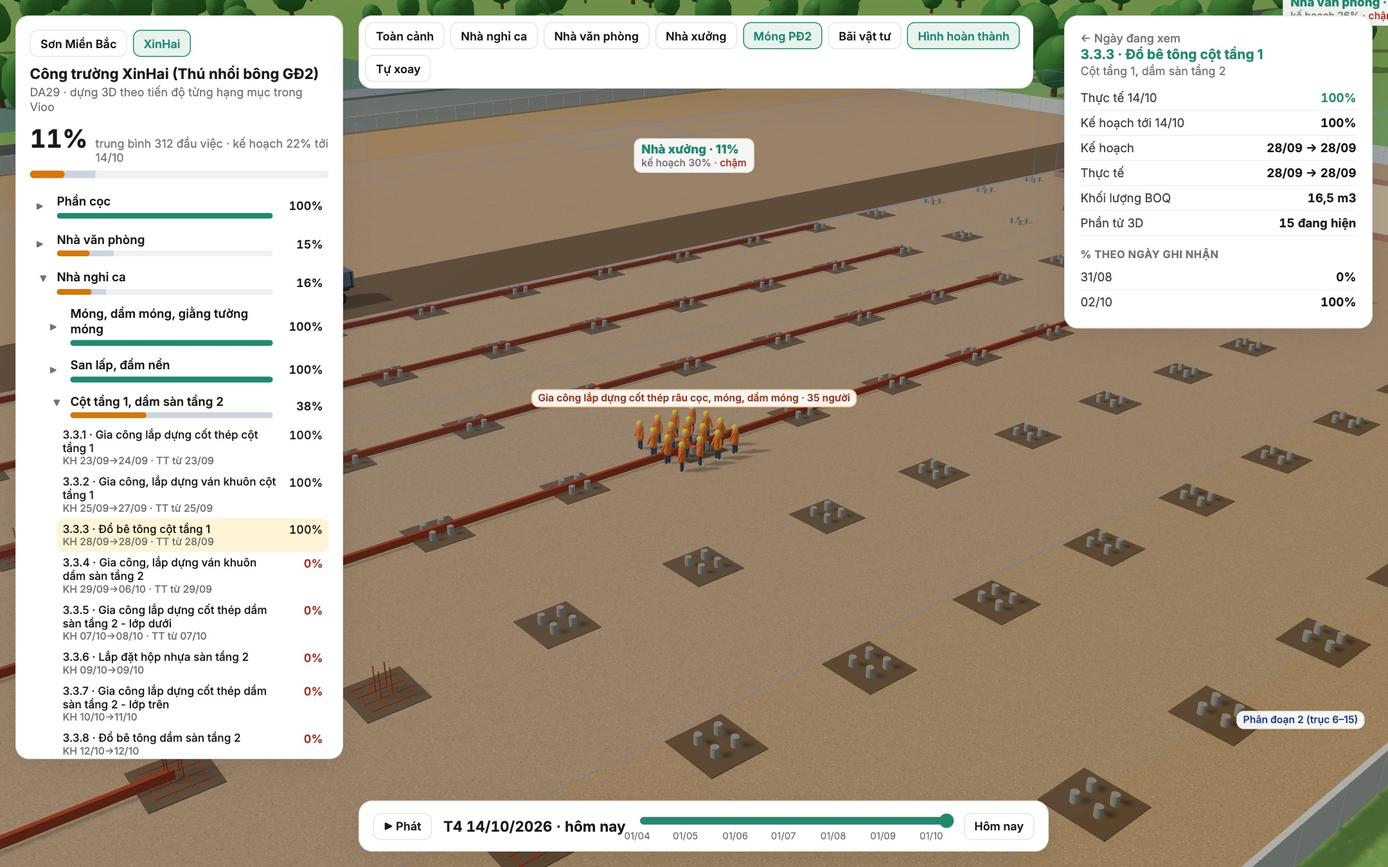
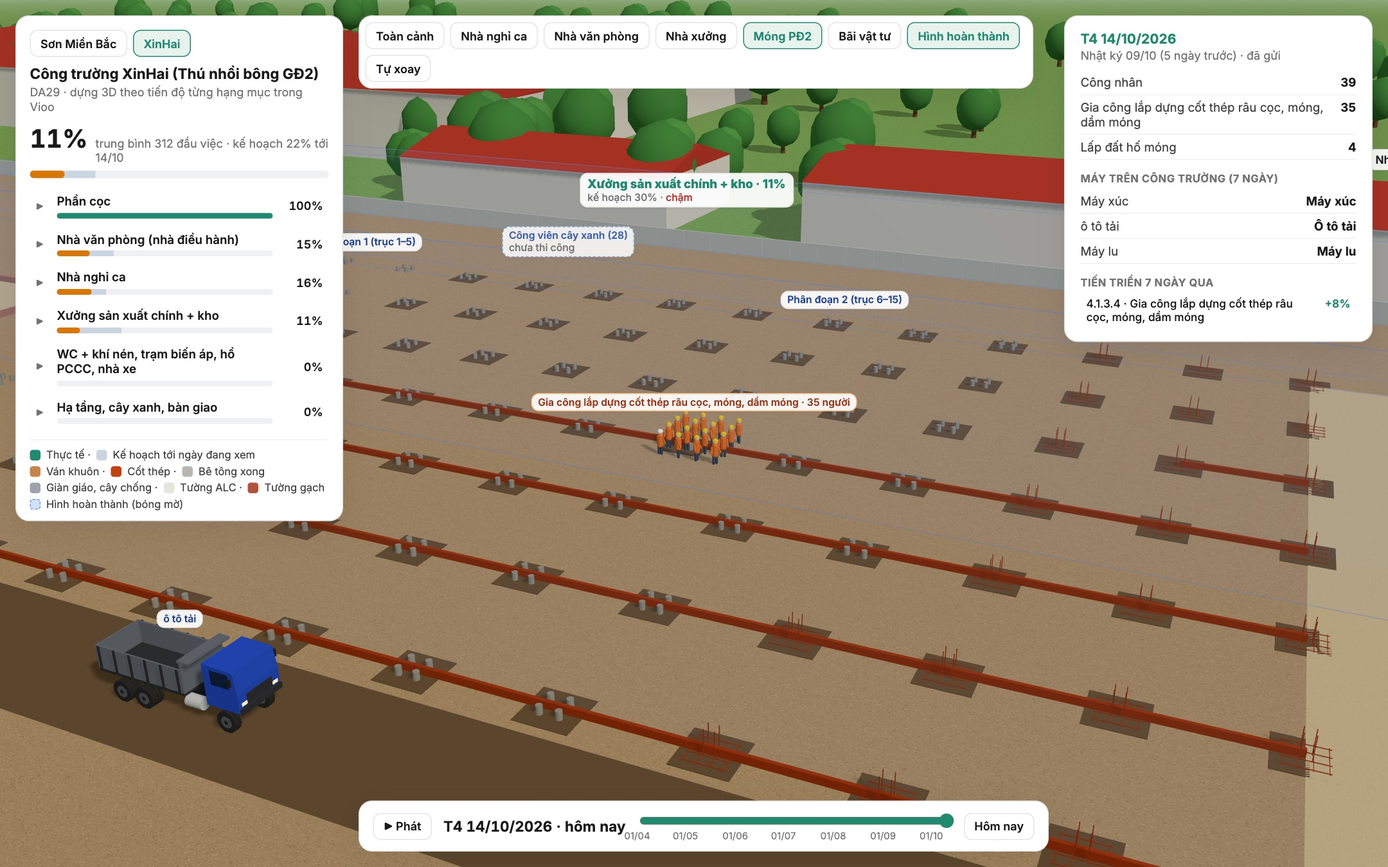
docs(center): XinHai 3D theo phối cảnh và bảng hạng mục thật
- Mặt bằng xoay theo phối cảnh: đường chính phía trước, đường nhánh bên phải, nhà máy giai đoạn 1 phía sau.
- Xưởng sản xuất chính + kho 8.110 m² (60 × 135, 18 bước cột), nhà điều hành 2 tầng 1.161 m² ở đầu xa, nhà nghỉ ca 3 tầng 288 m² ở đầu gần.
- Hạng mục chưa thi công (nhà xe, WC, khí nén, máy phát, trạm biến áp, nồi hơi, hồ PCCC, cột cờ, cây xanh) hiện bóng mờ có tên + diện tích.

diff --git a/docs/command-center/mockups/site-3d.html b/docs/command-center/mockups/site-3d.html
@@ -48,6 +48,7 @@ button:hover{background:#f2f2f2}button[aria-pressed=true]{border-color:var(--acc
 .label small{display:block;font-weight:500;color:var(--muted);font-size:10.5px}
 .label.click{pointer-events:auto;cursor:pointer}.label.click:hover{border-color:var(--accent)}
 .label.bld{font-size:12.5px;font-weight:800;color:#1f8a70}.label.team{color:#9a3412;border-color:#fdba74;font-size:10.5px;padding:2px 6px}
+.label.ghost{color:#3b5fa8;border:1px dashed #8aa6d8;background:rgba(255,255,255,.85);font-size:10.5px;padding:2px 6px}
 .label.mach{color:#1d4290;font-size:10.5px;padding:2px 6px}.label.pour{background:#1f2937;color:#fff;border-color:#1f2937;font-size:10.5px}
 .legend{display:grid;gap:3px;font-size:11px;color:var(--fg2);margin-top:10px;border-top:1px solid #f0f0f0;padding-top:8px}
 .legend span{display:flex;align-items:center;gap:6px}.legend i{width:11px;height:11px;border-radius:3px;display:inline-block;flex:none}
@@ -240,7 +241,7 @@ const k = (n, p) => Math.round(n * Math.max(0, Math.min(100, p)) / 100);
 /* ───────── Mặt bằng (đơn vị m; x đông, z nam; đường lớn phía nam) ─────────
    Kích thước theo khối lượng BOQ trong Vioo: NX1 = NX2 = 1.980 m² (30 × 66), NX3 = 5.550 m² hai zone (66 × 83), nhà văn phòng ~400 m² sàn (24 × 17), 4 tầng + tum. */
 const kidsOf = w => (TASK[w] ? TASK[w].kids.map(t => t.wbs) : []);
-const SITE = SITE_KEY === 'SMB' ? { x0: -52, x1: 50, z0: -172, z1: 62 } : { x0: -66, x1: 82, z0: -152, z1: 50 };
+const SITE = SITE_KEY === 'SMB' ? { x0: -52, x1: 50, z0: -172, z1: 62 } : { x0: -66, x1: 80, z0: -178, z1: 52 };
 const BLD = SITE_KEY === 'SMB' ? {
   NVP: { name: 'Nhà văn phòng', short: 'Văn phòng', x0: -40, x1: -16, z0: 8, z1: 25, roots: ['1', '2', '3', '4'] },
   NX1: { name: 'Nhà xưởng 1', short: 'Xưởng 1', x0: 0, x1: 30, z0: -50, z1: 16, roots: ['5', '6', '7', '8'] },
@@ -248,10 +249,10 @@ const BLD = SITE_KEY === 'SMB' ? {
   NX3: { name: 'Nhà xưởng 3', short: 'Xưởng 3', x0: -38, x1: 28, z0: -160, z1: -77, roots: ['13', '14', '15', '16'] },
   HT: { name: 'Hạ tầng', short: 'Hạ tầng', x0: SITE.x0, x1: SITE.x1, z0: SITE.z0, z1: SITE.z1, roots: ['17'] },
 } : {
-  COC: { name: 'Phần cọc', short: 'Cọc', x0: 10, x1: 76, z0: -112, z1: 38, roots: kidsOf('1'), noLabel: true },
-  NVP: { name: 'Nhà văn phòng', short: 'Văn phòng', x0: 10, x1: 58, z0: -140, z1: -116, roots: kidsOf('2') },
-  NNC: { name: 'Nhà nghỉ ca', short: 'Nghỉ ca', x0: -26, x1: -2, z0: 10, z1: 26, roots: kidsOf('3') },
-  NX: { name: 'Nhà xưởng', short: 'Xưởng', x0: 10, x1: 76, z0: -112, z1: 38, roots: kidsOf('4') },
+  COC: { name: 'Phần cọc', short: 'Cọc', x0: 0, x1: 60, z0: -115, z1: 20, roots: kidsOf('1'), noLabel: true },
+  NVP: { name: 'Nhà văn phòng (nhà điều hành)', short: 'Văn phòng', x0: 4, x1: 40.3, z0: -147, z1: -115, roots: kidsOf('2') },
+  NNC: { name: 'Nhà nghỉ ca', short: 'Nghỉ ca', x0: -30, x1: -12, z0: -4, z1: 12, roots: kidsOf('3') },
+  NX: { name: 'Xưởng sản xuất chính + kho', short: 'Xưởng', x0: 0, x1: 60, z0: -115, z1: 20, roots: kidsOf('4') },
   PHU: { name: 'WC + khí nén, trạm biến áp, hồ PCCC, nhà xe', short: 'Hạng mục phụ', x0: -60, x1: 78, z0: -140, z1: -10, roots: ['5', '6', '7'], noLabel: true },
   HT: { name: 'Hạ tầng, cây xanh, bàn giao', short: 'Hạ tầng', x0: SITE.x0, x1: SITE.x1, z0: SITE.z0, z1: SITE.z1, roots: ['8', '9'], noLabel: true },
 };
@@ -274,9 +275,11 @@ if (SITE_KEY === 'SMB') {
   const rd = flat(10, 1600, mat('#ffffff', { map: rep(TX.asphalt, 2, 160) }), -80, 0.03, 0); for (let z = -780; z < 780; z += 9) flat(0.25, 4, mat('#f0d24a'), -80, 0.045, z);
   for (const [x, z, w, d] of [[-125, -40, 60, 120], [-130, 90, 70, 70], [-120, -170, 50, 80]]) flat(w, d, M.water, x, 0.0, z);
   const red = mat('#c0392b', { roughness: 0.6 }), wall = mat('#e8e6e1');
-  for (const [x0, x1, z0, z1, h] of [[92, 116, -40, 70, 7], [92, 108, -140, -60, 6], [120, 190, -260, -120, 10]]) { boxM(x1 - x0, h, z1 - z0, wall, (x0 + x1) / 2, h / 2, (z0 + z1) / 2);
+  for (const [x0, x1, z0, z1, h] of [[86, 106, -60, 60, 7], [86, 104, -112, -76, 6], [112, 200, -262, -112, 10]]) { boxM(x1 - x0, h, z1 - z0, wall, (x0 + x1) / 2, h / 2, (z0 + z1) / 2);
     const sh = new THREE.Shape(); sh.moveTo(-(x1 - x0) / 2 - 0.4, 0); sh.lineTo((x1 - x0) / 2 + 0.4, 0); sh.lineTo(0, 2.6); sh.closePath(); const r2 = new THREE.Mesh(new THREE.ExtrudeGeometry(sh, { depth: z1 - z0, bevelEnabled: false }), x0 > 115 ? mat('#9aa7b4', { metalness: 0.4 }) : red); r2.position.set((x0 + x1) / 2, h, z0); r2.castShadow = true; scene.add(r2); }
-  boxM(6, 4, 120, mat('#d7dade'), -70.5, 2, -90); boxM(7, 0.3, 121, mat('#8d98a3'), -70.5, 4.15, -90);
+  boxM(6, 4, 120, mat('#d7dade'), -70.5, 2, -100); boxM(7, 0.3, 121, mat('#8d98a3'), -70.5, 4.15, -100);
+  const gd1 = label('Nhà máy hiện có (giai đoạn 1)'); gd1.position.set(96, 12, 0); scene.add(gd1);
+  flat(300, 9, mat('#ffffff', { map: rep(TX.asphalt, 30, 1) }), 70, 0.03, 64);
 }
 { // Rừng cây quanh khu đất: 3 InstancedMesh (thân + 2 tán) cho vài trăm cây.
   const pts = []; let guard = 0;
@@ -290,6 +293,8 @@ if (SITE_KEY === 'SMB') {
 
 /* ───────── Hình hoàn thành (bóng mờ theo phối cảnh) ───────── */
 const ghosts = new THREE.Group(); scene.add(ghosts);
+const ghostLabels = [];
+function ghostItem(w, h, d, x, z, name, area) { ghostBox(w, h, d, x, h / 2, z); const l = label(`${name}<small>${area ? `${area.toLocaleString('vi-VN')} m² · ` : ''}chưa thi công</small>`, 'ghost'); l.position.set(x, h + 1.5, z); scene.add(l); ghostLabels.push(l); }
 function ghostBox(w, h, d, x, y, z) { const g = new THREE.BoxGeometry(w, h, d); const m = new THREE.Mesh(g, M.ghost); m.position.set(x, y, z); ghosts.add(m); const e = new THREE.LineSegments(new THREE.EdgesGeometry(g), M.ghostLine); e.position.copy(m.position); ghosts.add(e); return m; }
 function ghostGable(b, eave, ridge) {
   const w = b.x1 - b.x0, len = b.z0 - b.z1, cx = (b.x0 + b.x1) / 2;
@@ -810,7 +815,7 @@ function frameBuilding(b, { key, nx, nz, fh, floors, found, ground, tum, ghostH 
 }
 // Nhà xưởng khung thép 2 tầng (sàn deck), chia phân đoạn theo trục.
 function steelFactoryDA(b, segs) {
-  const xs = [10, 21, 32, 43, 54, 65, 76], BAY = 150 / 18;
+  const xs = [0, 10, 20, 30, 40, 50, 60], BAY = 7.5;
   for (const sg of segs) {
     const frameZ = []; for (let z = sg.z1; z >= sg.z0 - 0.5; z -= BAY) frameZ.push(Math.round(z * 100) / 100);
     const pos = []; frameZ.forEach(z => xs.forEach(x => pos.push([x, z])));
@@ -823,10 +828,10 @@ function steelFactoryDA(b, segs) {
     const bays = []; for (let j = 0; j < frameZ.length - 1; j += 1) for (let i = 0; i < xs.length - 1; i += 1) bays.push({ x0: xs[i], x1: xs[i + 1], z0: frameZ[j + 1], z1: frameZ[j] });
     slab(bays, 6.45, 0.14, { form: '4.3.1', reb: c.deckReb, conc: c.deck }, 6.0, { formMat: M.deck, noProps: true });
     walls(perimeter(r, frameZ.length - 1, 6, 0.1), 0.5, 5.8, M.brick, c.wall);
-    steelRoof(r, [{ x0: 10, x1: 43 }, { x0: 43, x1: 76 }], frameZ, 0.4, 12, 14.4, { steel: '4.3.1', roof: c.roof, clad: c.clad });
+    steelRoof(r, [{ x0: 0, x1: 30 }, { x0: 30, x1: 60 }], frameZ, 0.4, 12, 14.4, { steel: '4.3.1', roof: c.roof, clad: c.clad });
     const lab = label(sg.name, 'mach'); lab.position.set(b.x1 + 3, 1.5, (sg.z0 + sg.z1) / 2); scene.add(lab);
   }
-  ghostGable({ x0: 10, x1: 43, z0: b.z0, z1: b.z1 }, 12, 14.4); ghostGable({ x0: 43, x1: 76, z0: b.z0, z1: b.z1 }, 12, 14.4);
+  ghostGable({ x0: 0, x1: 30, z0: b.z0, z1: b.z1 }, 12, 14.4); ghostGable({ x0: 30, x1: 60, z0: b.z0, z1: b.z1 }, 12, 14.4);
 }
 function pilePress() { // robot ép cọc tĩnh (loại 260 t): 2 dầm đi bộ, khung kẹp cọc, đối trọng khối bê tông, cabin, cẩu phụ cầm cọc
   const g = new THREE.Group();
@@ -863,35 +868,40 @@ function spunPiles(x, z, n, items) { // cọc ly tâm D300 dài 10 m xếp tần
 
 if (SITE_KEY === 'DA29') {
   const R = re => stockOf(re);
-  frameBuilding(BLD.NVP, { key: 'NVP', nx: 6, nz: 3, fh: 4.0, ghostH: 11, found: { pile: '1.2.1', dig: '2.1.1', reb: '2.1.4', form: '2.1.5', pad: '2.1.6', tie: '2.1.6', backfill: '2.2.1', plinth: '2.1.7' }, ground: { sand: '2.2.1', base: '2.2.2' },
+  frameBuilding(BLD.NVP, { key: 'NVP', nx: 4, nz: 4, fh: 4.2, ghostH: 12, found: { pile: '1.2.1', dig: '2.1.1', reb: '2.1.4', form: '2.1.5', pad: '2.1.6', tie: '2.1.6', backfill: '2.2.1', plinth: '2.1.7' }, ground: { sand: '2.2.1', base: '2.2.2' },
     floors: [{ col: { reb: '2.3.1', form: '2.3.2', conc: '2.3.3' }, slab: { form: '2.3.4', reb: '2.3.5', conc: '2.3.6' }, wall: '2.5.1' }, { col: { reb: '2.4.1', form: '2.4.2', conc: '2.4.3' }, slab: { form: '2.4.4', reb: '2.4.5', conc: '2.4.6' }, wall: '2.5.2' }] });
-  frameBuilding(BLD.NNC, { key: 'NNC', nx: 4, nz: 2, fh: 3.6, ghostH: 14, found: { pile: '1.2.1', dig: '3.1.1', reb: '3.1.4', form: '3.1.5', pad: '3.1.6', tie: '3.1.6', backfill: '3.2.1', plinth: '3.1.7' }, ground: { sand: '3.2.1', base: '3.2.2' },
+  frameBuilding(BLD.NNC, { key: 'NNC', nx: 3, nz: 2, fh: 3.6, ghostH: 14, found: { pile: '1.2.1', dig: '3.1.1', reb: '3.1.4', form: '3.1.5', pad: '3.1.6', tie: '3.1.6', backfill: '3.2.1', plinth: '3.1.7' }, ground: { sand: '3.2.1', base: '3.2.2' },
     floors: [{ col: { reb: '3.3.1', form: '3.3.2', conc: '3.3.3' }, slab: { form: '3.3.4', reb: '3.3.5', conc: '3.3.8' }, wall: '3.7.1' }, { col: { reb: '3.4.1', form: '3.4.2', conc: '3.4.3' }, slab: { form: '3.4.4', reb: '3.4.5', conc: '3.4.8' }, wall: '3.7.2' },
       { col: { reb: '3.5.1', form: '3.5.2', conc: '3.5.3' }, slab: { form: '3.5.4', reb: '3.5.5', conc: '3.5.8' }, wall: '3.7.3' }],
     tum: { col: { reb: '3.6.1', form: '3.6.2', conc: '3.6.3' }, slab: { form: '3.6.4', reb: '3.6.5', conc: '3.6.8' }, wall: '3.7.4' } });
   steelFactoryDA(BLD.NX, [
-    { name: 'Phân đoạn 3 (trục 15–19)', z0: 38 - 4 * 150 / 18, z1: 38, c: { dig: '4.1.3.1', reb: '4.1.3.4', form: '4.1.3.5', conc: '4.1.3.6', fill: '4.1.3.7', plinth: '4.1.3.11', base: '4.2.9', floorReb: '4.8.5', floor: '4.8.6', deckReb: '4.7.5', deck: '4.7.6', wall: '4.4.3', roof: '4.5.3', clad: '4.6.3' } },
-    { name: 'Phân đoạn 2 (trục 6–15)', z0: 38 - 14 * 150 / 18, z1: 38 - 4 * 150 / 18, c: { dig: '4.1.2.1', reb: '4.1.2.4', form: '4.1.2.5', conc: '4.1.2.6', fill: '4.2.5', plinth: '4.1.2.9', base: '4.2.6', floorReb: '4.8.3', floor: '4.8.4', deckReb: '4.7.3', deck: '4.7.4', wall: '4.4.2', roof: '4.5.2', clad: '4.6.2' } },
-    { name: 'Phân đoạn 1 (trục 1–5)', z0: -112, z1: 38 - 14 * 150 / 18, c: { dig: '4.1.1.1', reb: '4.1.1.4', form: '4.1.1.5', conc: '4.1.1.6', fill: '4.1.1.7', plinth: '4.1.1.9', base: '4.2.3', floorReb: '4.8.1', floor: '4.8.2', deckReb: '4.7.1', deck: '4.7.2', wall: '4.4.1', roof: '4.5.1', clad: '4.6.1' } },
+    { name: 'Phân đoạn 3 (trục 15–19)', z0: -10, z1: 20, c: { dig: '4.1.3.1', reb: '4.1.3.4', form: '4.1.3.5', conc: '4.1.3.6', fill: '4.1.3.7', plinth: '4.1.3.11', base: '4.2.9', floorReb: '4.8.5', floor: '4.8.6', deckReb: '4.7.5', deck: '4.7.6', wall: '4.4.3', roof: '4.5.3', clad: '4.6.3' } },
+    { name: 'Phân đoạn 2 (trục 6–15)', z0: -85, z1: -10, c: { dig: '4.1.2.1', reb: '4.1.2.4', form: '4.1.2.5', conc: '4.1.2.6', fill: '4.2.5', plinth: '4.1.2.9', base: '4.2.6', floorReb: '4.8.3', floor: '4.8.4', deckReb: '4.7.3', deck: '4.7.4', wall: '4.4.2', roof: '4.5.2', clad: '4.6.2' } },
+    { name: 'Phân đoạn 1 (trục 1–5)', z0: -115, z1: -85, c: { dig: '4.1.1.1', reb: '4.1.1.4', form: '4.1.1.5', conc: '4.1.1.6', fill: '4.1.1.7', plinth: '4.1.1.9', base: '4.2.3', floorReb: '4.8.1', floor: '4.8.2', deckReb: '4.7.1', deck: '4.7.2', wall: '4.4.1', roof: '4.5.1', clad: '4.6.1' } },
   ]);
   // Hạng mục chưa làm (0%): chỉ hiện bóng mờ.
-  ghostBox(14, 4, 10, 70, 2, -134); ghostBox(12, 4, 10, -54, 2, -55); ghostBox(20, 0.4, 15, -45, 0.2, -92); ghostBox(25, 3.5, 6, -48, 1.75, -15); ghostBox(0.3, 12, 0.3, -20, 6, 44);
+  const GI = [['Nhà xe công nhân (5C)', 844.2, 6.25, 3.5, 135, -61.5, -107.5], ['Nhà xe công nhân (5D)', 294.0, 49, 3.5, 6, 34.5, 47], ['Nhà lán xe (5E)', 99.8, 10, 3.5, 10, 71, 32],
+    ['Hồ nước PCCC (24)', 235.0, 19, 0.5, 12.4, -40, -60], ['Nhà vệ sinh công nhân (6A)', 105.8, 10.6, 3.6, 10, -45, -152], ['Nhà vệ sinh công nhân (6B)', 110.7, 10.5, 3.6, 10.5, -30, -152],
+    ['Phòng khí nén (25)', 52.5, 7.5, 3.6, 7, -15, -152], ['Phòng máy phát điện (26)', 66.3, 8.3, 3.6, 8, -45, -168], ['Trạm biến áp bổ sung (27)', 36.7, 6, 3, 6.1, -30, -168],
+    ['Nhà nồi hơi (7A)', 40.2, 6.7, 4, 6, -15, -168], ['Chòi hút thuốc (29)', 11.0, 3.3, 2.8, 3.3, 71, 4], ['Công viên cây xanh (28)', null, 16, 0.3, 175, 71, -80]];
+  for (const [name, area, w, h, d, x, z] of GI) ghostItem(w, h, d, x, z, name, area);
+  ghostBox(0.25, 12, 0.25, -27, 6, -48); ghostBox(0.25, 10, 0.25, -25, 5, -48); ghostBox(0.25, 10, 0.25, -29, 5, -48); // cột cờ
   // Rào, cổng, nhà bảo vệ mái đỏ, đường tạm, BCH (nhà dài mái tôn xanh trắng), khu gia công lưới xanh, bãi vật tư.
-  const fence = []; for (let z = SITE.z1; z > SITE.z0; z -= 3) { if (!(z < 16 && z > 0)) fence.push([SITE.x0, z, SITE.x0, z - 3]); fence.push([SITE.x1, z, SITE.x1, z - 3]); }
+  const fence = []; for (let z = SITE.z1; z > SITE.z0; z -= 3) { if (!(z < -28 && z > -41)) fence.push([SITE.x0, z, SITE.x0, z - 3]); fence.push([SITE.x1, z, SITE.x1, z - 3]); }
   for (let x = SITE.x0; x < SITE.x1; x += 3) { fence.push([x, SITE.z0, x + 3, SITE.z0]); fence.push([x, SITE.z1, x + 3, SITE.z1]); }
   const fl = fence.map(([ax, az, bx, bz]) => mtx((ax + bx) / 2, 1.0, (az + bz) / 2, Math.hypot(bx - ax, bz - az), 2.0, 0.22, -Math.atan2(bz - az, bx - ax)));
   const fm = new THREE.InstancedMesh(new THREE.BoxGeometry(1, 1, 1), mat('#cfd2d4'), fl.length); fl.forEach((m, i) => fm.setMatrixAt(i, m)); fm.castShadow = true; scene.add(fm);
-  const gh = new THREE.Group(); gh.position.set(-60, 0, -2); scene.add(gh); boxM(4, 2.8, 3.5, M.white, 0, 1.4, 0, gh); const gr = new THREE.Mesh(new THREE.ConeGeometry(3.4, 1.6, 4), mat('#c0392b')); gr.rotation.y = Math.PI / 4; gr.position.y = 3.6; gr.castShadow = true; gh.add(gr);
-  flat(66, 10, M.pit, -33, 0.02, 8); flat(10, 160, M.pit, 3, 0.02, -72);
-  const bch = new THREE.Group(); bch.position.set(-44, 0, 25); scene.add(bch); boxM(28, 3.2, 10, M.white, 0, 1.6, 0, bch);
+  const gh = new THREE.Group(); gh.position.set(-61, 0, -46); scene.add(gh); boxM(4, 2.8, 3.5, M.white, 0, 1.4, 0, gh); const gr = new THREE.Mesh(new THREE.ConeGeometry(3.4, 1.6, 4), mat('#c0392b')); gr.rotation.y = Math.PI / 4; gr.position.y = 3.6; gr.castShadow = true; gh.add(gr);
+  flat(74, 8, M.pit, -40, 0.02, -34); flat(8, 196, M.pit, -6, 0.02, -72); flat(72, 8, M.pit, 26, 0.02, 30);
+  const bch = new THREE.Group(); bch.position.set(-55, 0, -6); bch.rotation.y = Math.PI / 2; scene.add(bch); boxM(28, 3.2, 10, M.white, 0, 1.6, 0, bch);
   for (let i = -6; i <= 6; i += 2) boxM(1.4, 1.1, 0.06, M.cab, i * 2, 1.9, 5.03, bch);
   const shp = new THREE.Shape(); shp.moveTo(-5.6, 0); shp.lineTo(5.6, 0); shp.lineTo(0, 1.6); shp.closePath(); const rf = new THREE.Mesh(new THREE.ExtrudeGeometry(shp, { depth: 29, bevelEnabled: false }), mat('#eef2f5', { metalness: 0.3 })); rf.rotation.y = Math.PI / 2; rf.position.set(-14.5, 3.2, 0); rf.castShadow = true; bch.add(rf);
   boxM(29, 0.1, 0.5, M.blue, 0, 3.45, 5.3, bch); const bl = label('Ban chỉ huy công trường<small>nhà điều hành tạm · kho</small>'); bl.position.set(0, 7, 0); bch.add(bl);
-  const net = new THREE.Mesh(new THREE.BoxGeometry(12, 3.4, 9), new THREE.MeshStandardMaterial({ color: '#1f9d55', transparent: true, opacity: 0.35, side: THREE.DoubleSide })); net.position.set(-58, 1.7, 41); scene.add(net);
-  spunPiles(-40, 42, 12, R(/Cọc ly tâm|Mũi cọc/)); spunPiles(-34, 42, 10, R(/Cọc ly tâm|Mũi cọc/));
-  rebarRack(-24, 41, R(/^Thép XD D/));
-  pile(-14, 42, 3.4, 2.2, M.gravel, 'Base B (cấp phối đá dăm)', R(/Base B/));
-  palletStack(-48, 38, M.scaffold, 2, 8, 1, 1.0, 0.08, 1.7, 'Thang giáo', R(/Thang giáo/), 0.06);
+  const net = new THREE.Mesh(new THREE.BoxGeometry(12, 3.4, 9), new THREE.MeshStandardMaterial({ color: '#1f9d55', transparent: true, opacity: 0.35, side: THREE.DoubleSide })); net.position.set(-56, 1.7, 36); scene.add(net);
+  spunPiles(-44, 30, 12, R(/Cọc ly tâm|Mũi cọc/)); spunPiles(-38, 30, 10, R(/Cọc ly tâm|Mũi cọc/));
+  rebarRack(-43, 12, R(/^Thép XD D/));
+  pile(-30, -18, 3.4, 2.2, M.gravel, 'Base B (cấp phối đá dăm)', R(/Base B/));
+  palletStack(-36, 15, M.scaffold, 2, 8, 1, 1.0, 0.08, 1.7, 'Thang giáo', R(/Thang giáo/), 0.06);
 }
 /* ───────── Công nhân và máy theo nhật ký ngày ───────── */
 const crew = new THREE.Group(); scene.add(crew);
@@ -901,10 +911,10 @@ function worker(x, y, z, helmet = M.helmetY) { const g = new THREE.Group(); g.po
   for (const s of [-1, 1]) { const arm = mesh(armGeo, M.vest, s * 0.27, 1.02, 0.06, g); arm.rotation.z = s * 0.18; arm.rotation.x = -0.35; }
   g.userData.phase = Math.random() * 6; crew.add(g); return g; }
 const TEAM_PLACES = SITE_KEY === 'DA29' ? [
-  { re: /nghỉ/i, at: () => [-14, 3.75, 18], name: 'Nhà nghỉ ca' },
-  { re: /bch/i, at: () => [-44, 0, 34], name: 'BCH' },
-  { re: /đào|lấp đất/i, at: () => [43, 0, -96], name: 'Phân đoạn 1' },
-  { re: /văn phòng|xưởng|cốt thép|ván khuôn|móng/i, at: () => [43, 0, -37], name: 'Nhà xưởng PĐ2' },
+  { re: /nghỉ/i, at: () => [-21, 3.75, 4], name: 'Nhà nghỉ ca' },
+  { re: /bch/i, at: () => [-44, 0, -6], name: 'BCH' },
+  { re: /đào|lấp đất/i, at: () => [30, 0, -100], name: 'Phân đoạn 1' },
+  { re: /văn phòng|xưởng|cốt thép|ván khuôn|móng/i, at: () => [30, 0, -47], name: 'Nhà xưởng PĐ2' },
 ] : [
   { re: /alc|xây tường bao|xây alc/i, at: () => [-10.6, 0, -20], name: 'Xây ALC' },
   { re: /kc|kết cấu|lắp dựng/i, at: () => [15, 11.6, -10], name: 'Lắp dựng kết cấu', up: true },
@@ -915,9 +925,9 @@ const TEAM_PLACES = SITE_KEY === 'DA29' ? [
   { re: /văn phòng|nvp|cốt thép|vk|ván|bt|bê tông/i, at: () => [-28, 4 * FH + 0.1, 16], name: 'BT, cốt thép, ván khuôn' },
 ];
 const MACH_PLACES = SITE_KEY === 'DA29'
-  ? { crane: [-14, 0, 36, Math.PI / 2], excavator: [40, 0, -96, 0.6], roller: [43, 0, 21, Math.PI / 2], dozer: [30, 0, 30, 1.2], rammer: [30, 0, -45, 0], truck: [3, 0, -30, 0], pilepress: [30, 0, -20, 0], bender: [-58, 0, 43, 0] }
+  ? { crane: [-36, 0, -8, 0], excavator: [30, 0, -100, 0.6], roller: [30, 0, 5, Math.PI / 2], dozer: [15, 0, 40, 1.2], rammer: [20, 0, -40, 0], truck: [-6, 0, -55, 0], pilepress: [20, 0, -60, 0], bender: [-56, 0, 37, 0] }
   : { crane: [34.5, 0, -12, -Math.PI / 2], excavator: [45, 0, -70, 0.4], roller: [40.5, 0, -110, 0], dozer: [-25, 0, -95, 1.2], rammer: [44.2, 0, -48, 0], truck: [20, 0, 46, Math.PI / 2] };
-const MACH_MOVE = SITE_KEY === 'DA29' ? { roller: ['x', 43, 24, 0.25], dozer: ['x', 30, 8, 0.2] } : { roller: ['z', -110, 22, 0.25], dozer: ['x', -25, 9, 0.2] };
+const MACH_MOVE = SITE_KEY === 'DA29' ? { roller: ['x', 30, 22, 0.25], dozer: ['x', 15, 8, 0.2] } : { roller: ['z', -110, 22, 0.25], dozer: ['x', -25, 9, 0.2] };
 const machines = {}; const machLabels = {};
 const BUILDERS = { crane: () => mobileCrane(12), excavator, roller, dozer, rammer, truck: () => dumpTruck(M.blue), pilepress: pilePress, bender: rebarBench };
 for (const [k2, place2] of Object.entries(MACH_PLACES)) {
@@ -934,8 +944,8 @@ function machinesNear(d) { const set = new Map(); for (const l of DATA.logs) if 
 function pourOn(d) { // Đổ bê tông có % tăng trong ngày d → xe bơm + 2 xe bồn tới nhà đó.
   let best = null; for (const t of Object.values(TASK)) { if (!/^Đổ bê tông/.test(t.name) || t.kids.length) continue; const a = pAt(t.wbs, d - 1), b = pAt(t.wbs, d); if (b - a > 0.5 && (!best || b - a > best.gain)) best = { t, gain: b - a }; } return best; }
 const bldOf = wbs => Object.entries(BLD).find(([, b]) => b.roots.some(r => wbs === r || wbs.startsWith(r + '.')))?.[0];
-const POUR_AT = SITE_KEY === 'DA29' ? { NVP: [64, -128, 0], NNC: [-14, 34, Math.PI / 2], NX: [78, -37, 0], COC: [3, -37, 0], PHU: [0, 0, 0], HT: [0, 0, 0] } : { NVP: [-28, 31, Math.PI / 2], NX1: [36, -17, 0], NX2: [-46, -27, 0], NX3: [-46, -118, 0], HT: [30, 40, 0] };
-const BCENTER = SITE_KEY === 'DA29' ? { NVP: [34, 0, -128], NNC: [-14, 3.75, 18], NX: [43, 0, -37], COC: [43, 0, -37], PHU: [-50, 0, -55], HT: [3, 0, -50] } : { NVP: [-28, 0, 27.5], NX1: [15, 0, 17.5], NX2: [-25, 0, -61.5], NX3: [-5, 0, -75.5], HT: [44, 0, -60] };
+const POUR_AT = SITE_KEY === 'DA29' ? { NVP: [48, -131, 0], NNC: [-21, 20, Math.PI / 2], NX: [66, -47, 0], COC: [-6, -47, 0], PHU: [0, 0, 0], HT: [0, 0, 0] } : { NVP: [-28, 31, Math.PI / 2], NX1: [36, -17, 0], NX2: [-46, -27, 0], NX3: [-46, -118, 0], HT: [30, 40, 0] };
+const BCENTER = SITE_KEY === 'DA29' ? { NVP: [22, 0, -131], NNC: [-21, 3.75, 4], NX: [30, 0, -47], COC: [30, 0, -47], PHU: [-35, 0, -155], HT: [-6, 0, -60] } : { NVP: [-28, 0, 27.5], NX1: [15, 0, 17.5], NX2: [-25, 0, -61.5], NX3: [-5, 0, -75.5], HT: [44, 0, -60] };
 function activeBuildings(d) { const g = {}; for (const t of Object.values(TASK)) { if (t.kids.length) continue; const gain = pAt(t.wbs, d) - pAt(t.wbs, d - 7); if (gain > 0.5) { const b = bldOf(t.wbs); if (b) g[b] = (g[b] || 0) + gain; } } return Object.entries(g).sort((a, b) => b[1] - a[1]).map(([b]) => b); }
 function cluster(x, y, z, count, text) { for (let i = 0; i < Math.min(count, 16); i += 1) worker(x + (i % 4) * 1.3 - 2, y, z + Math.floor(i / 4) * 1.3 - 1.5, i === 0 ? M.helmetW : M.helmetY);
   const l = label(text, 'team'); l.position.set(x, y + 3.2, z); scene.add(l); teamLabels.push(l); }
@@ -1005,7 +1015,7 @@ function showDay() {
     <div class="sec">Tiến triển 7 ngày qua</div>${recent.length ? recent.map(({ t, gain }) => `<button type="button" class="task" data-task="${t.wbs}"><span>${esc(t.wbs)} · ${esc(t.name)}</span><span class="pct ok">+${Math.round(gain)}%</span></button>`).join('') : '<p class="sub">Không có đầu việc tăng %.</p>'}`;
 }
 info.addEventListener('click', e => { const tk = e.target.closest('[data-task]'); if (tk) selectTask(tk.dataset.task); const bk = e.target.closest('[data-back]'); if (bk) { selTask = null; selBld = null; clearHL(); showDay(); } });
-const CENTER = SITE_KEY === 'DA29' ? { NVP: [34, 4, -128, 70], NNC: [-14, 5, 18, 45], NX: [43, 4, -37, 180], COC: [43, 4, -37, 180], PHU: [0, 0, -60, 200], HT: [5, 0, -50, 230] } : { NVP: [-28, 6, 16, 55], NX1: [15, 6, -17, 80], NX2: [-25, 6, -27, 80], NX3: [-5, 6, -118, 120], HT: [0, 0, -50, 230] };
+const CENTER = SITE_KEY === 'DA29' ? { NVP: [22, 4, -131, 70], NNC: [-21, 5, 4, 45], NX: [30, 4, -47, 180], COC: [30, 4, -47, 180], PHU: [-35, 0, -150, 120], HT: [5, 0, -60, 240] } : { NVP: [-28, 6, 16, 55], NX1: [15, 6, -17, 80], NX2: [-25, 6, -27, 80], NX3: [-5, 6, -118, 120], HT: [0, 0, -50, 230] };
 function selectBuilding(key, fly = true) {
   selBld = key; const b = BLD[key], ts = b.roots.map(r => TASK[r]);
   info.innerHTML = `<button type="button" data-back style="border:0;background:none;padding:0;height:auto;color:#737373;font-weight:500">← Ngày đang xem</button><h2>${b.name}</h2><p class="sub">${dd(DAY)} · thực tế so với kế hoạch</p>
@@ -1031,7 +1041,7 @@ function selectTask(wbs) {
 }
 
 /* ───────── Camera, chọn trong cảnh, thời gian ───────── */
-const VIEWS = SITE_KEY === 'DA29' ? { overview: [[-10, 215, 185], [8, 0, -50]], NNC: [[6, 17, 50], [-14, 3, 18]], NVP: [[62, 30, -82], [34, 3, -128]], NX: [[135, 80, 40], [43, 3, -37]], NX_PD2: [[95, 30, 5], [43, 1, -37]], yard: [[-26, 22, 82], [-34, 1, 40]] } : { overview: [[-150, 120, 140], [-5, 0, -55]], NVP: [[-62, 22, 62], [-28, 6, 16]], NX1: [[62, 30, 40], [15, 5, -17]], NX2: [[-82, 30, 20], [-25, 5, -27]], NX3: [[-110, 55, -40], [-5, 5, -118]], yard: [[40, 18, 58], [18, 1, 28]] };
+const VIEWS = SITE_KEY === 'DA29' ? { overview: [[-170, 150, 120], [10, 0, -65]], NNC: [[-55, 18, 38], [-21, 4, 4]], NVP: [[-35, 32, -92], [22, 3, -131]], NX: [[-95, 85, 40], [30, 3, -47]], NX_PD2: [[-40, 32, -15], [30, 1, -47]], yard: [[-80, 22, 48], [-42, 1, 10]] } : { overview: [[-150, 120, 140], [-5, 0, -55]], NVP: [[-62, 22, 62], [-28, 6, 16]], NX1: [[62, 30, 40], [15, 5, -17]], NX2: [[-82, 30, 20], [-25, 5, -27]], NX3: [[-110, 55, -40], [-5, 5, -118]], yard: [[40, 18, 58], [18, 1, 28]] };
 let camFrom = null, camTo = null, camT = 1;
 function flyTo(target, dist) { const dir = camera.position.clone().sub(controls.target).normalize(); camFrom = { p: camera.position.clone(), t: controls.target.clone() }; camTo = { p: target.clone().add(dir.multiplyScalar(dist)), t: target.clone() }; camT = 0; }
 function goView(v) { const [p, t] = VIEWS[v]; camFrom = { p: camera.position.clone(), t: controls.target.clone() }; camTo = { p: v3(...p), t: v3(...t) }; camT = 0; document.querySelectorAll('[data-view]').forEach(b => b.setAttribute('aria-pressed', String(b.dataset.view === v))); }
@@ -1043,7 +1053,7 @@ camera.position.set(...VIEWS.overview[0]); controls.target.set(...VIEWS.overview
 document.querySelectorAll('[data-view]').forEach(b => { b.onclick = () => goView(b.dataset.view); });
 const btnRotate = document.getElementById('btnRotate'); btnRotate.onclick = () => { controls.autoRotate = !controls.autoRotate; btnRotate.setAttribute('aria-pressed', String(controls.autoRotate)); };
 controls.addEventListener('start', () => { camT = 1; controls.autoRotate = false; btnRotate.setAttribute('aria-pressed', 'false'); });
-const btnGhost = document.getElementById('btnGhost'); btnGhost.onclick = () => { ghosts.visible = !ghosts.visible; btnGhost.setAttribute('aria-pressed', String(ghosts.visible)); };
+const btnGhost = document.getElementById('btnGhost'); btnGhost.onclick = () => { ghosts.visible = !ghosts.visible; lod(); btnGhost.setAttribute('aria-pressed', String(ghosts.visible)); };
 const ray = new THREE.Raycaster(), down = new THREE.Vector2();
 renderer.domElement.addEventListener('pointerdown', e => down.set(e.clientX, e.clientY));
 renderer.domElement.addEventListener('pointerup', e => {
@@ -1077,7 +1087,8 @@ window.siteDebug = { setDay, view: v => { goView(v); camT = 1; camera.position.c
 
 const lodV = new THREE.Vector3();
 function lod() { const far = camera.position.distanceTo(controls.target) > 170;
-  for (const l of [...teamLabels, ...Object.values(machLabels), pourLabel]) { l.getWorldPosition(lodV); l.visible = far || lodV.distanceTo(controls.target) < 70; } }
+  for (const l of [...teamLabels, ...Object.values(machLabels), pourLabel]) { l.getWorldPosition(lodV); l.visible = far || lodV.distanceTo(controls.target) < 70; }
+  for (const l of ghostLabels) { l.getWorldPosition(lodV); l.visible = ghosts.visible && camera.position.distanceTo(lodV) < 150; } }
 window.siteDebug.focus = (x, y, z, dist, ax = -1, ay = 0.6, az = 1) => { camT = 1; controls.target.set(x, y, z); camera.position.set(x + ax * dist, y + ay * dist, z + az * dist); controls.update(); };
 buildTree(); setDay(TODAY);
 const clock = new THREE.Clock(); let t = 0, frame = 0;

diff --git a/docs/command-center/08-dong-chay-cong-viec-2026-10-13.md b/docs/command-center/08-dong-chay-cong-viec-2026-10-13.md
@@ -389,3 +389,16 @@ cầm cọc) và bàn gia công uốn / cắt thép; nhà khung bê tông n tầ
 chưa đổ (DA29: "2.4.2 ván khuôn cột tầng 2 14% nhưng 2.3.3 đổ bê tông cột tầng 1 0%") — phần tử tầng trên không vẽ lơ lửng.
 
 Ảnh: `mockups/site-3d-xinhai-{overview,nha-nghi-ca,mong-pd2,2026-09-15,bai-vat-tu,nha-van-phong}.jpg`.
+
+**XinHai theo phối cảnh và bảng hạng mục thật (15/10).** Chủ SP gửi phối cảnh 3D (4 ảnh: toàn khu, nhà nghỉ ca 3 góc) + bảng cơ cấu đất (50.156,9 m²: xây dựng
+26.902,6 · sân đường 10.715,4 · cây xanh 12.538,9) + bảng hạng mục. Dựng lại theo đó:
+- Mặt bằng xoay đúng phối cảnh: đường chính dọc mặt trước (phía tây), đường nhánh bên phải (phía nam), xưởng chạy song song đường chính, nhà máy hiện có
+  (giai đoạn 1) phía sau.
+- Kích thước: **Xưởng sản xuất chính + kho 8.110 m² → 60 × 135 m** (2 nhịp × 30 m, 18 bước cột × 7,5 m, 2 tầng sàn deck); **Nhà điều hành 2 tầng 1.161 m² →
+  36,3 × 32 m** ở đầu xa, sát xưởng; **Nhà nghỉ ca 3 tầng 288 m² → 18 × 16 m** ở đầu gần, trước mặt dài của xưởng (đúng ảnh 2–4).
+- Hạng mục chưa thi công hiện bóng mờ có tên + diện tích, bật / tắt cùng "Hình hoàn thành" và chỉ hiện nhãn khi lại gần: nhà xe công nhân 5C 844,2 m² (dọc rào
+  mặt trước) và 5D 294 m², nhà lán xe 99,8, hồ nước PCCC 235, cột cờ, nhà vệ sinh 6A 105,8 / 6B 110,7, phòng khí nén 52,5, phòng máy phát 66,3, trạm biến áp 36,7,
+  nhà nồi hơi 40,2, chòi hút thuốc 11, công viên cây xanh. Vị trí các nhà phụ là ước theo phối cảnh (cụm nhà nhỏ ở đầu xa gần nhà điều hành) — cần mặt bằng tổng thể
+  để đặt chính xác.
+
+Ảnh thay mới: `mockups/site-3d-xinhai-{overview,nha-nghi-ca,mong-pd2,2026-09-15,bai-vat-tu,nha-van-phong,hang-muc-phu}.jpg`.
